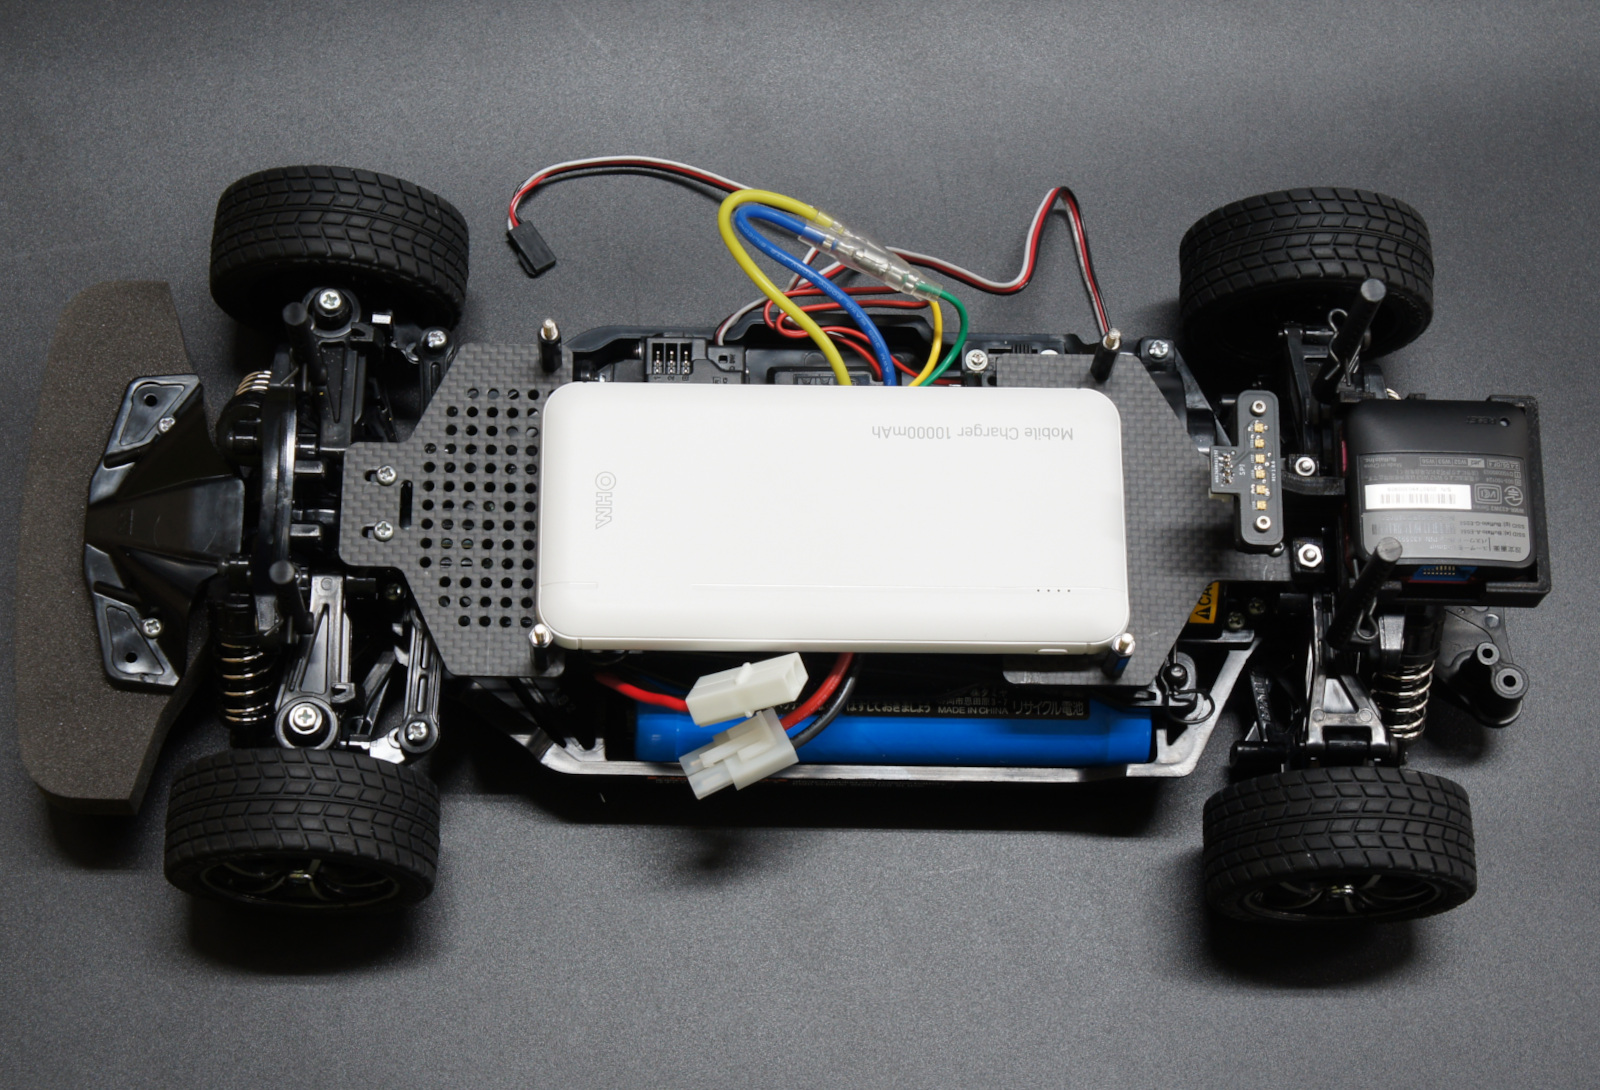
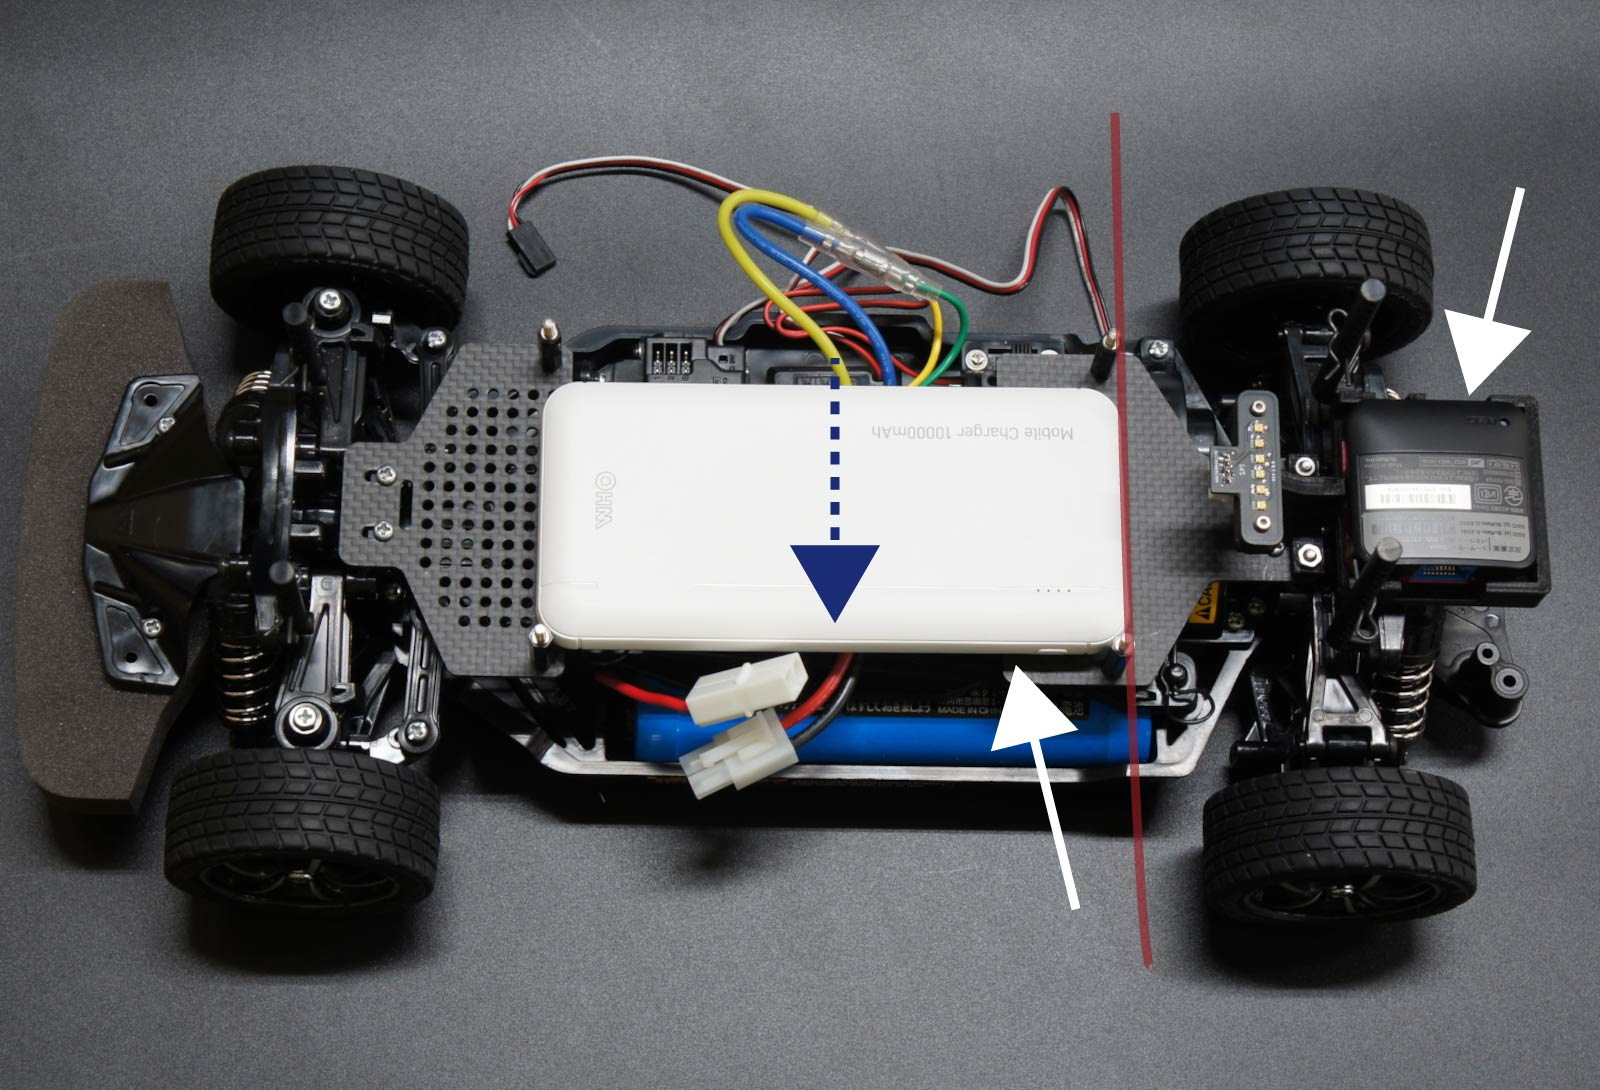
Deployed 51d1cf2 with MkDocs version: 1.2.3

diff --git a/01.組み立て/carbon_edition/JR1_S_C_C/08.build_Carbon_C/index.html b/01.組み立て/carbon_edition/JR1_S_C_C/08.build_Carbon_C/index.html
@@ -1197,7 +1197,7 @@
 <p><img alt="DCFAN2" src="../../../img/img_carbon/C/Late/DSC06295.JPG" /></p>
 <p>ロワーパネルをTT-02車体に載せます。</p>
 <p><img alt="DCFAN2" src="../../../img/img_carbon/C/Late/DSC06296.JPG" /></p>
-<p>ドライバーでRCカーからはずしたネジで４箇所締めます。</p>
+<p>ドライバーでRCカーからはずしたネジで４箇所締めます。一旦、仮締めをしてから締め付けることをお勧めします。</p>
 <p><img alt="DCFAN2" src="../../../img/img_carbon/C/Late/DSC06298.JPG" /></p>
 <p>アッパーパネルとJetson Nano、両面テープ３枚、無線LANルーター、モバイルバッテリーを用意します。</p>
 <p><img alt="DCFAN2" src="../../../img/img_carbon/C/Late/DSC06299.JPG" /></p>
@@ -1205,20 +1205,23 @@
 <p><img alt="DCFAN2" src="../../../img/img_carbon/C/Late/DSC06300.JPG" /></p>
 <p>無線LANルーターに両面テープを貼ります。</p>
 <p><img alt="DCFAN2" src="../../../img/img_carbon/C/Late/DSC06302.JPG" /></p>
-<p>下の写真の用に無線LANルーターとモバイルバッテリーをアッパーパネルに貼り付け、モバイルバッテリーは車体進行方向から見て、左側もしくは、右側にいっぱいに寄せて取り付けます。</p>
+<p>下の写真の用に無線LANルーターとモバイルバッテリーをアッパーパネルに貼り付けます。</p>
+<p>※モバイルバッテリーは車体進行方向から見て、左側にいっぱいに寄せて、下の写真赤線よりも超えないように貼り付けます。</p>
+<p>※寄せるのは、充電ランプが見えるようにするため</p>
 <p><img alt="DCFAN2" src="../../../img/img_carbon/C/Late/DSC06303.JPG" /></p>
 <p>車体にアッパーパネルを載せます。</p>
 <p><img alt="DCFAN2" src="../../../img/img_carbon/C/Late/DSC06304.JPG" /></p>
+<p>アッパーパネルを載せた様子。</p>
 <p><img alt="DCFAN2" src="../../../img/img_carbon/C/Late/DSC06305.JPG" /></p>
 <p>車体にアッパーパネルを載せて、ナットを４箇所をナットドライバーで固定します。</p>
 <p><img alt="DCFAN2" src="../../../img/img_carbon/C/Late/DSC06309.JPG" /></p>
 <h3 id="jetson_1">Jetson開発者キットの取り付け</h3>
 <p><img alt="DCFAN2" src="../../../img/img_carbon/C/Late/DSC06310.JPG" /></p>
-<p>ビスを用意して、Jetson開発者キットをスペーサーの上に載せます。</p>
+<p>Jetson開発者キットをスペーサーの上に載せます。</p>
 <p><img alt="DCFAN2" src="../../../img/img_carbon/C/Late/DSC06311.JPG" /></p>
-<p>ドライバーで４箇所固定します。</p>
+<p>なべねじM2.6×5で精密ドライバーを用いて４箇所固定します。</p>
 <p><img alt="DCFAN2" src="../../../img/img_carbon/C/Late/DSC06314.JPG" /></p>
-<p>ビスの締め付けが終了しましたら、Jetson開発者キット取り付け完了です。</p>
+<p>なべねじの締め付けが終了しましたら、Jetson開発者キット取り付け完了です。</p>
 <h3 id="_3">カメラケーブル接続</h3>
 <p>Jetson Nano B01 開発者キットには、CAM0,CAM1の２つのカメラポートがありますが、CAM0にカメラケーブルを接続します。</p>
 <p><img alt="ControllerBoard" src="../../../img/img_carbon/cameraselect.jpg" /></p>
@@ -1388,7 +1391,13 @@
 <p>Jetson開発者キットの緑色の各LEDが発光いたします。</p>
 <p>JetsonNano電源投入からしばらくたつと、コントローラーボードのOLEDにIPアドレス、メモリ使用率など表示されます。</p>
 <p><img alt="JetRacer" src="../../../img/img_carbon/OLED.jpg" /></p>
-<p>コネクタを接続し、RCカーの電源を繋ぎます。</p>
+<p>バッテリーの電池残量表示LEDランプを確認します。点灯しないもしくは、点灯がランプ２個以下の場合は充電をお勧めします。</p>
+<p><img alt="" src="../../../img/img_carbon/C/Late/DSC06332.JPG" /></p>
+<p>モバイルバッテリーの充電はモバイルバッテリーの横にあるUSB Type-Cポートを利用します。（USB Type-Cのケーブルは本キットには付属しません。）</p>
+<p>Jetson電源とWi-Fiルーター電源を一旦切り離して充電します。</p>
+<p>※取り扱い方法はモバイルバッテリーの取扱説明書をご覧ください。</p>
+<p><img alt="" src="../../../img/img_carbon/C/Late/DSC06334.JPG" /></p>
+<p>RCカーのバッテリーのコネクタを接続し、RCカーの電源を繋ぎます。</p>
 <p>※電源投入時は、特にRCカーの暴走に注意してください。</p>
 <p><img alt="JetRacer" src="../../../img/img_carbon/RCpower.jpg" /></p>
 <p><img alt="JetRacer" src="../../../img/img_carbon/C/Late/DSC06328.JPG" /></p>
